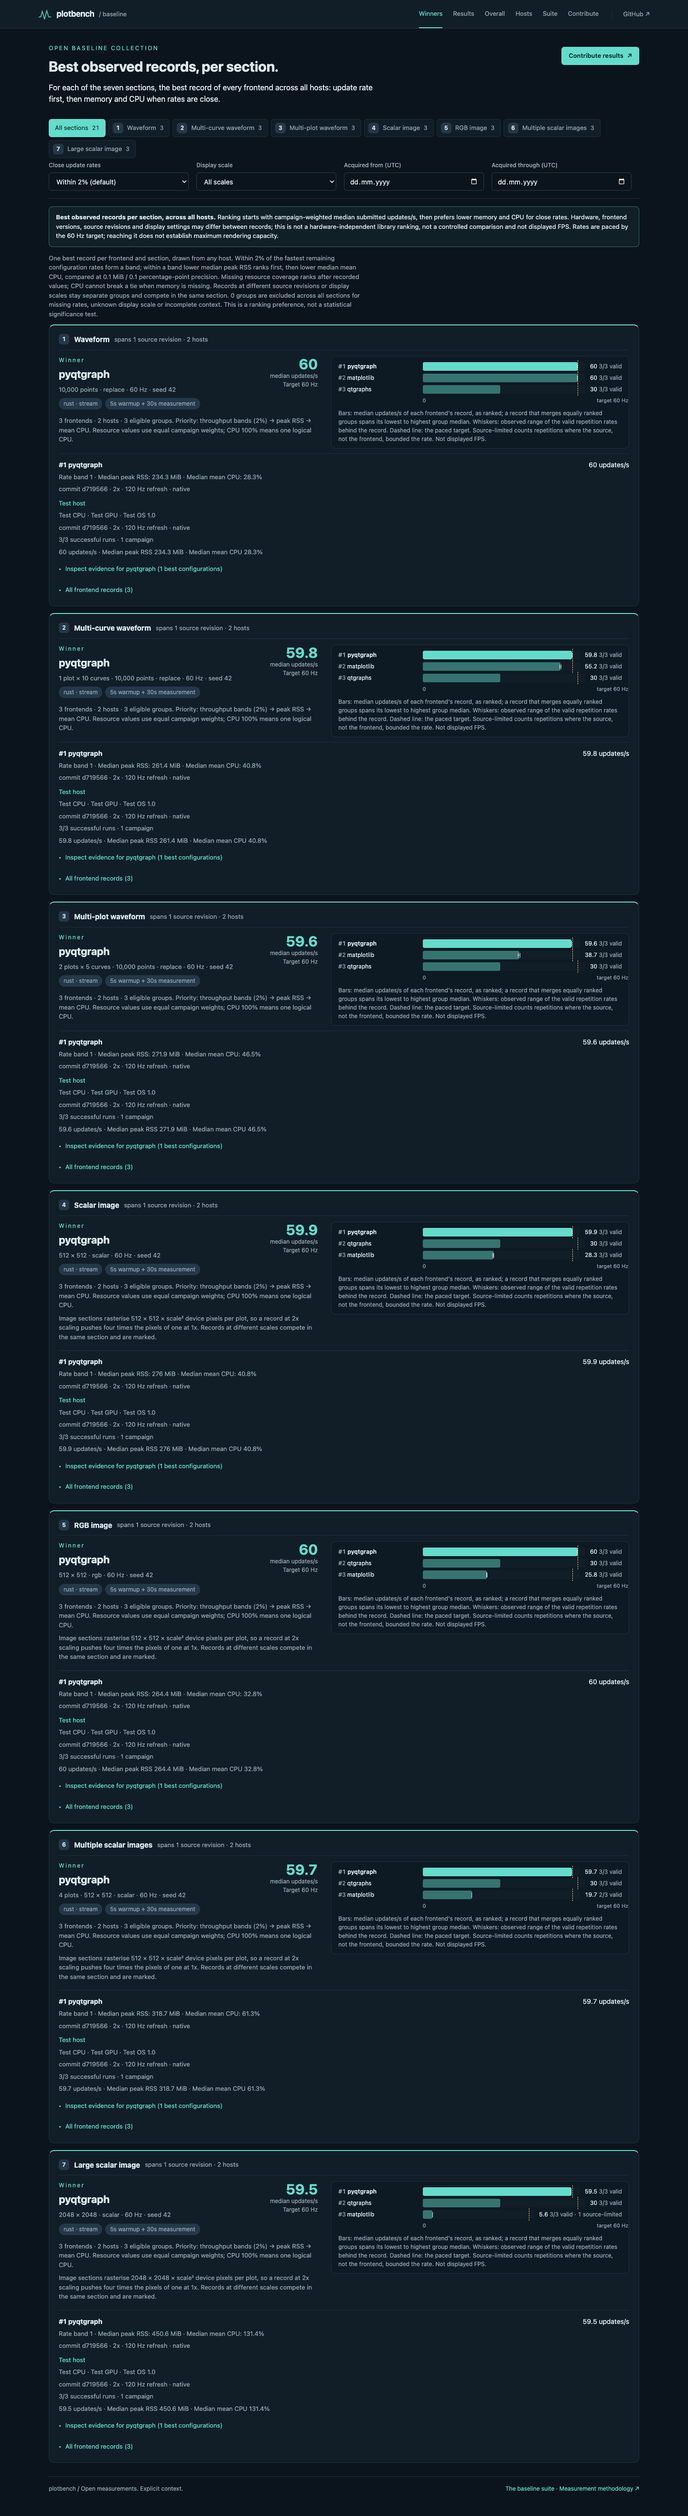
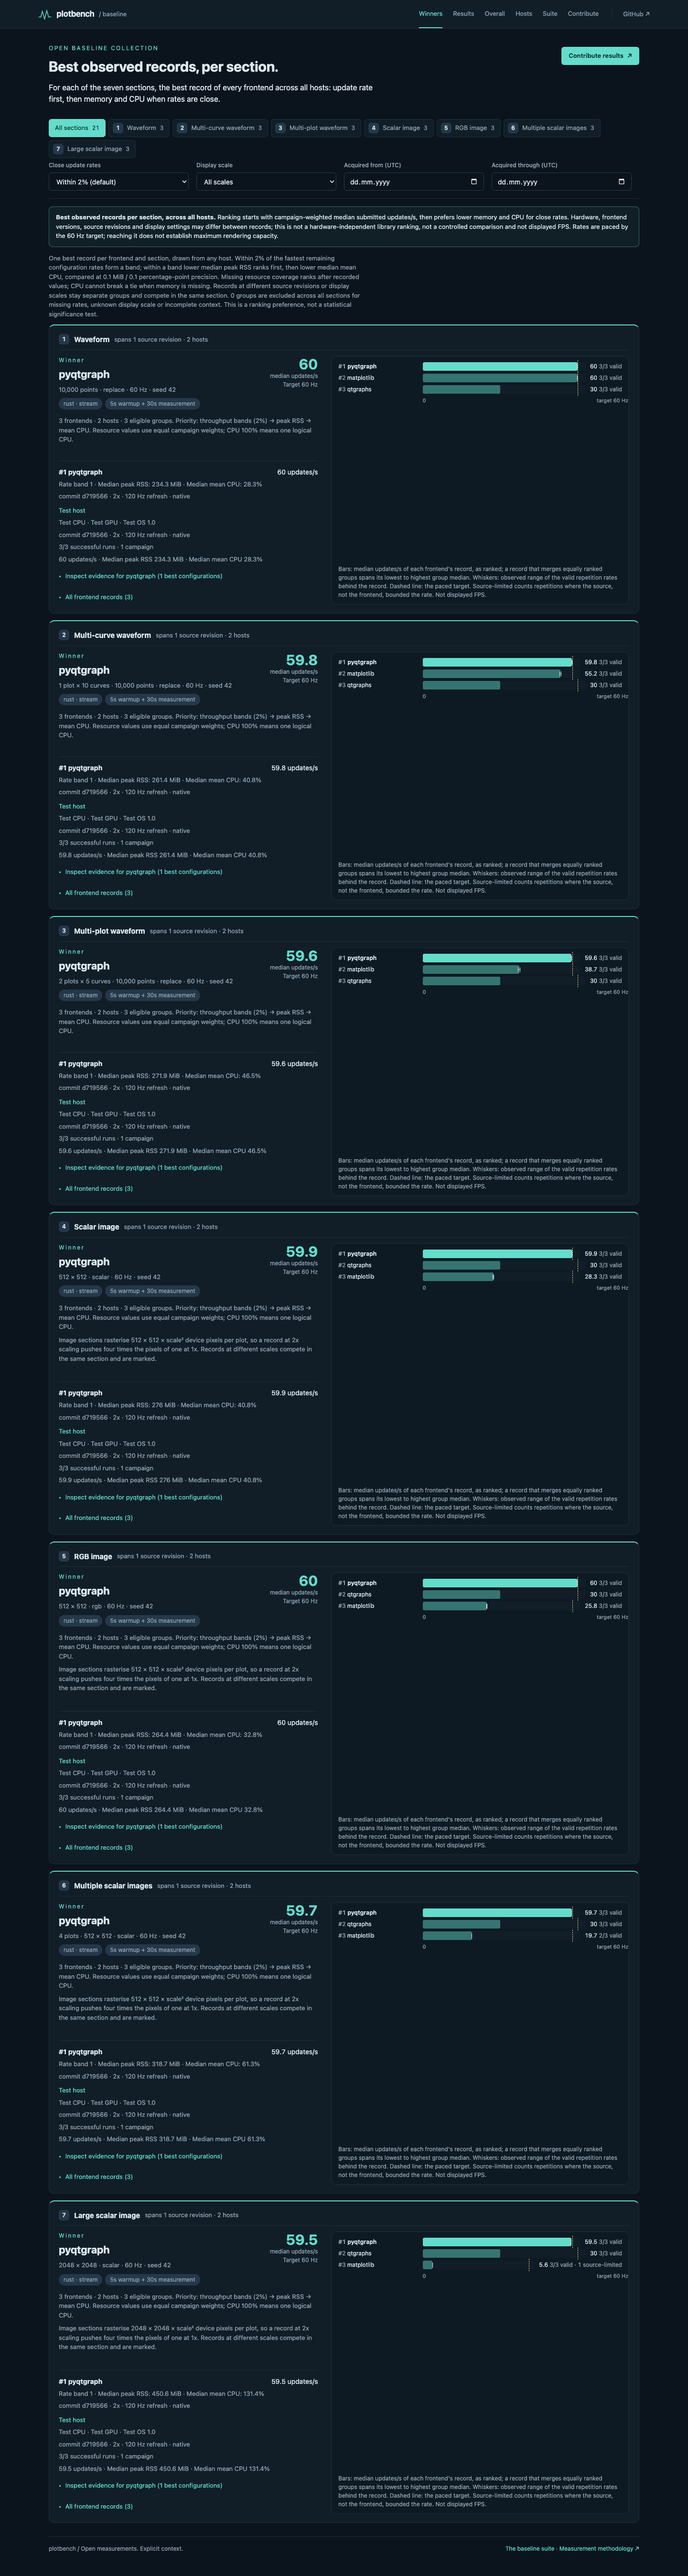
feat(results): let the section chart span the whole board

diff --git a/website/src/winners-page.tsx b/website/src/winners-page.tsx
@@ -264,32 +264,39 @@ function Board({ board, select }: { board: WinnerBoard; select: (o: Observation)
           )}
         </div>
         <BoardChart board={board} />
+        <div className="board-records">
+          <div className="winner-records">
+            {leaders.map((record) => (
+              <Record
+                key={record.frontend}
+                record={record}
+                select={select}
+                marked={scales.size > 1}
+              />
+            ))}
+          </div>
+          {board.records.length > leaders.length && (
+            <details
+              className="disclosure other-records"
+              open={expanded}
+              onToggle={(e) => setExpanded(e.currentTarget.open)}
+            >
+              <summary>All frontend records ({board.records.length})</summary>
+              {expanded &&
+                board.records
+                  .filter((record) => record.rank !== 1)
+                  .map((record) => (
+                    <Record
+                      key={record.frontend}
+                      record={record}
+                      select={select}
+                      marked={scales.size > 1}
+                    />
+                  ))}
+            </details>
+          )}
+        </div>
       </div>
-      <div className="winner-records">
-        {leaders.map((record) => (
-          <Record key={record.frontend} record={record} select={select} marked={scales.size > 1} />
-        ))}
-      </div>
-      {board.records.length > leaders.length && (
-        <details
-          className="disclosure other-records"
-          open={expanded}
-          onToggle={(e) => setExpanded(e.currentTarget.open)}
-        >
-          <summary>All frontend records ({board.records.length})</summary>
-          {expanded &&
-            board.records
-              .filter((record) => record.rank !== 1)
-              .map((record) => (
-                <Record
-                  key={record.frontend}
-                  record={record}
-                  select={select}
-                  marked={scales.size > 1}
-                />
-              ))}
-        </details>
-      )}
     </article>
   );
 }

diff --git a/website/src/style.css b/website/src/style.css
@@ -1094,16 +1094,28 @@ pre {
 .board-layout {
   display: grid;
   grid-template-columns: minmax(0, 1fr) minmax(0, 1.15fr);
+  grid-template-areas:
+    'facts chart'
+    'records chart';
   gap: 20px 28px;
   align-items: start;
 }
 .board-facts {
+  grid-area: facts;
+  min-width: 0;
+}
+.board-records {
+  grid-area: records;
   min-width: 0;
 }
 .board-facts > .muted {
   font-size: 13px;
 }
 .board-chart {
+  grid-area: chart;
+  align-self: stretch;
+  display: flex;
+  flex-direction: column;
   margin: 0;
   min-width: 0;
   padding: 12px 14px 10px;
@@ -1210,7 +1222,8 @@ pre {
   white-space: nowrap;
 }
 .board-chart figcaption {
-  margin-top: 8px;
+  margin-top: auto;
+  padding-top: 12px;
   font-size: 12px;
   color: var(--muted);
 }
@@ -1483,6 +1496,13 @@ footer {
   }
   .board-layout {
     grid-template-columns: minmax(0, 1fr);
+    grid-template-areas:
+      'facts'
+      'chart'
+      'records';
+  }
+  .board-chart {
+    align-self: start;
   }
   .toolbar-end {
     grid-column: 1 / -1;
